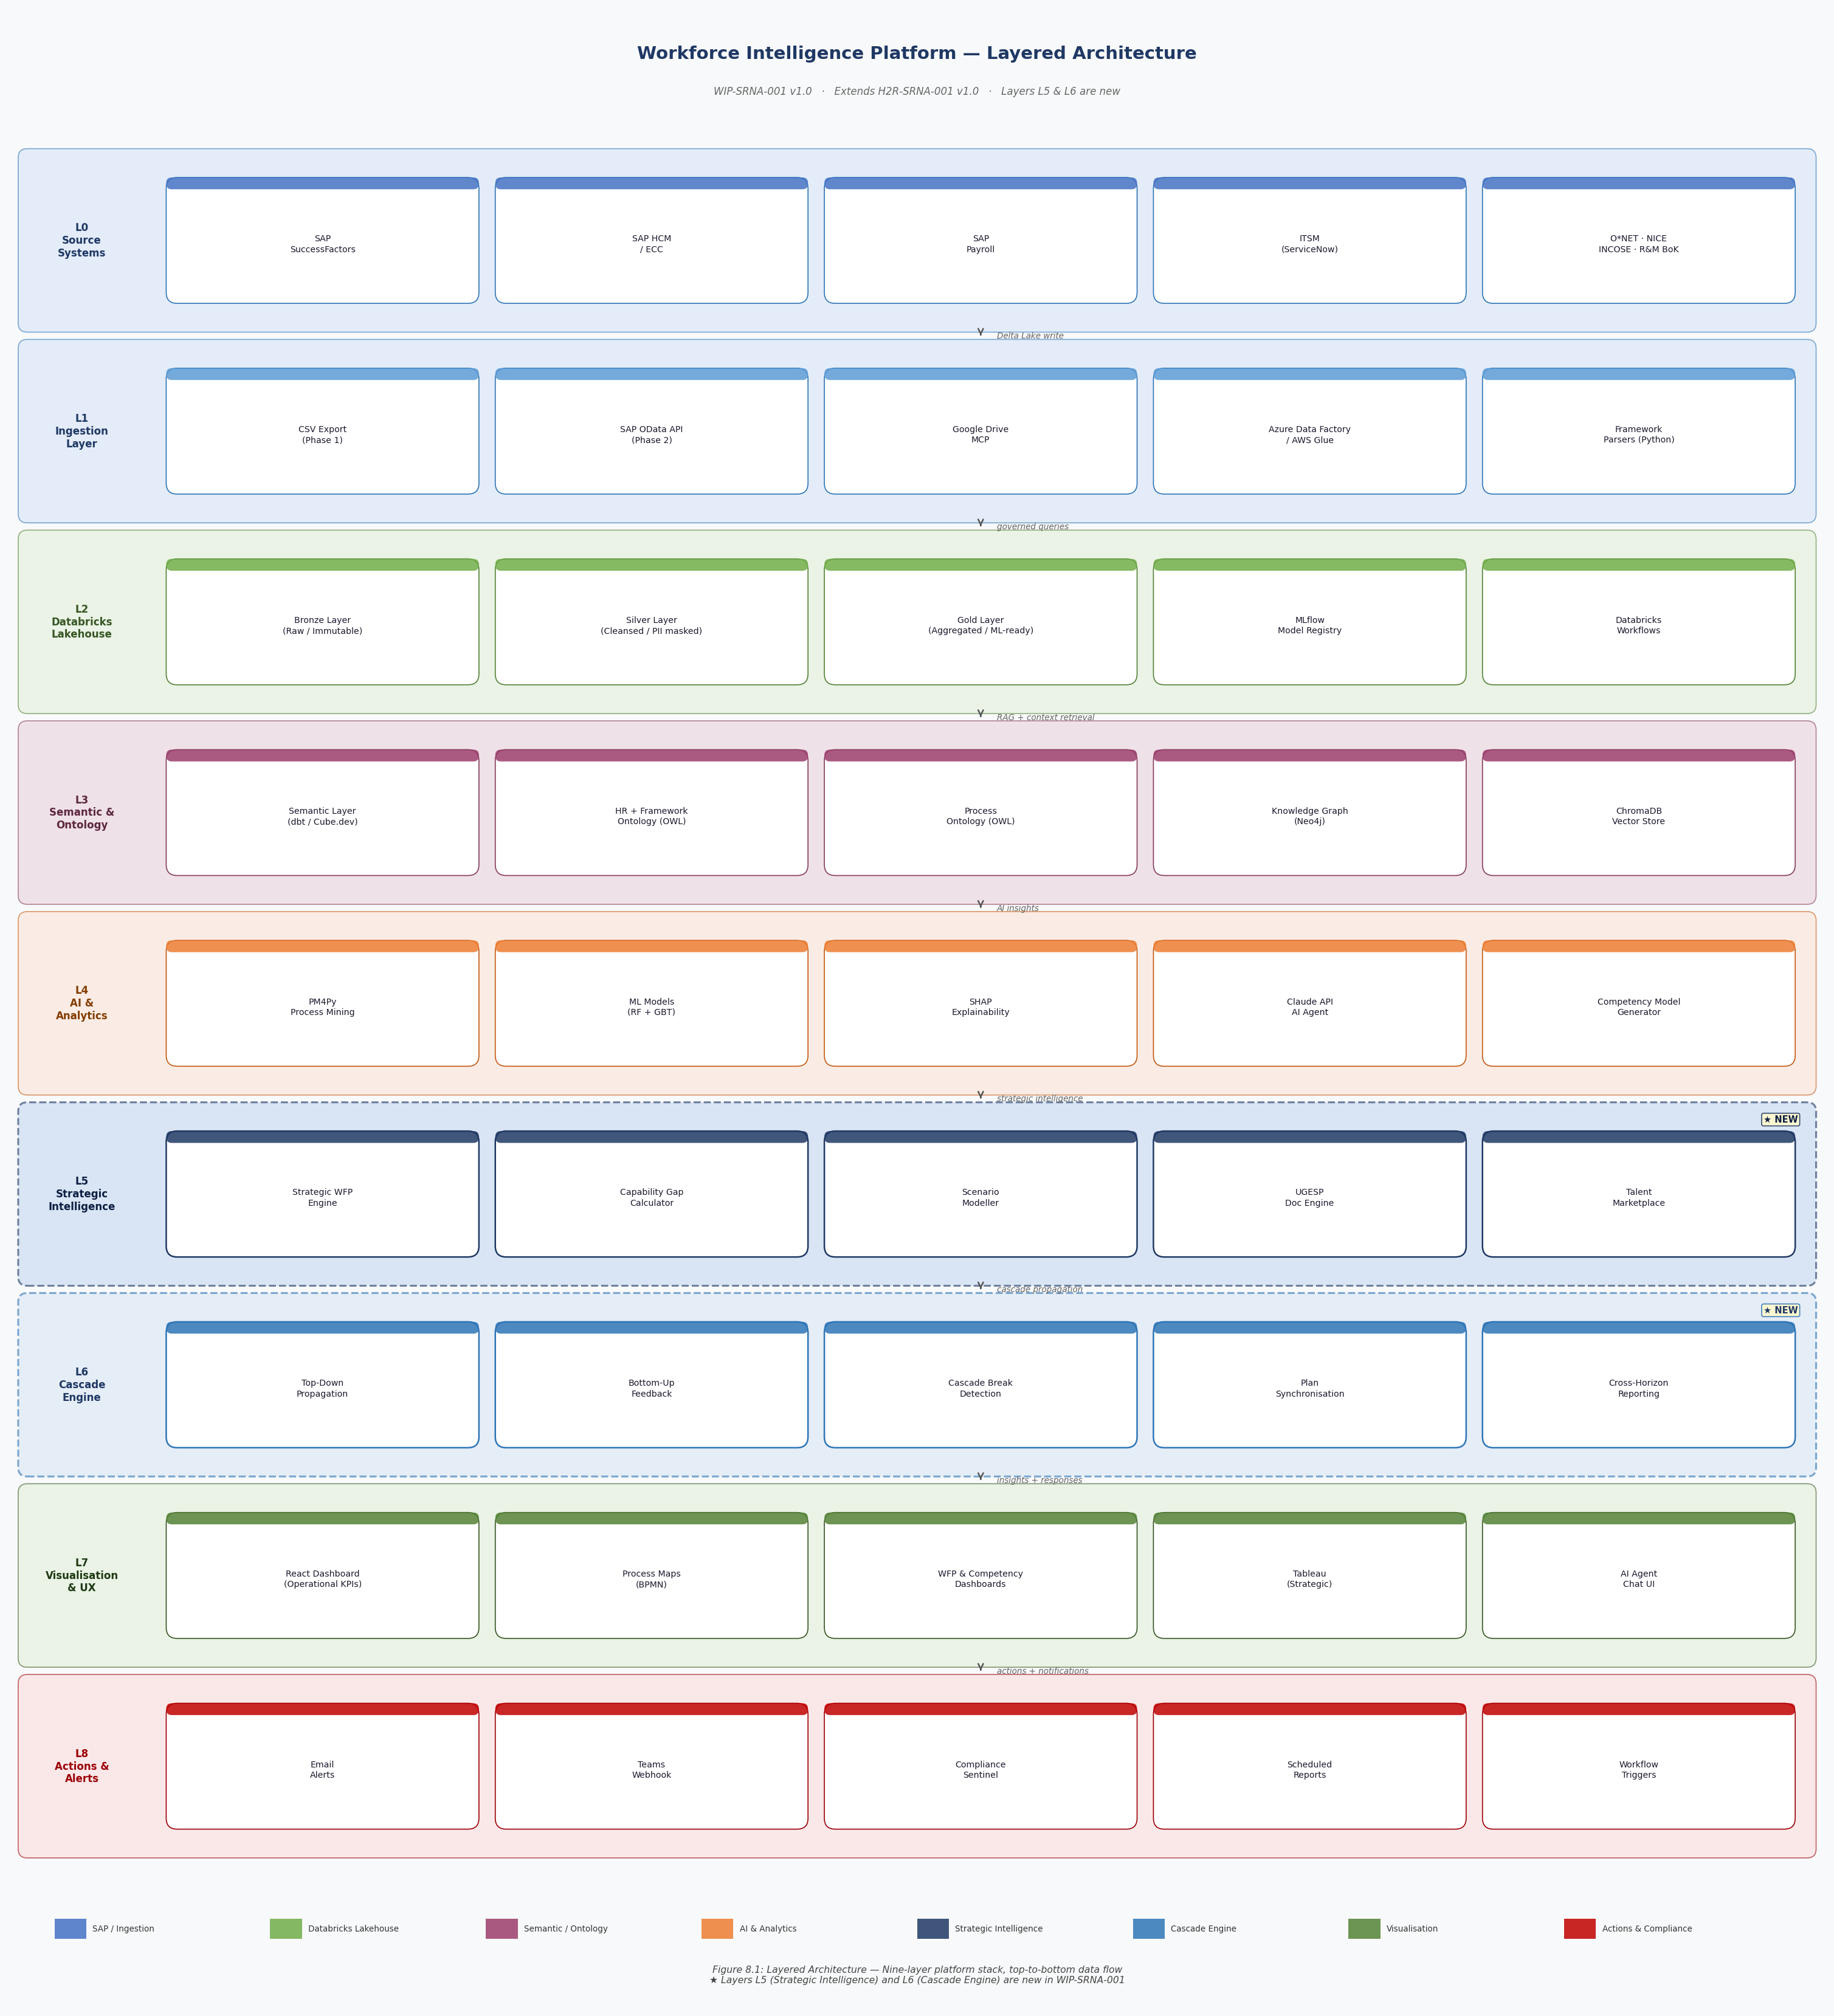
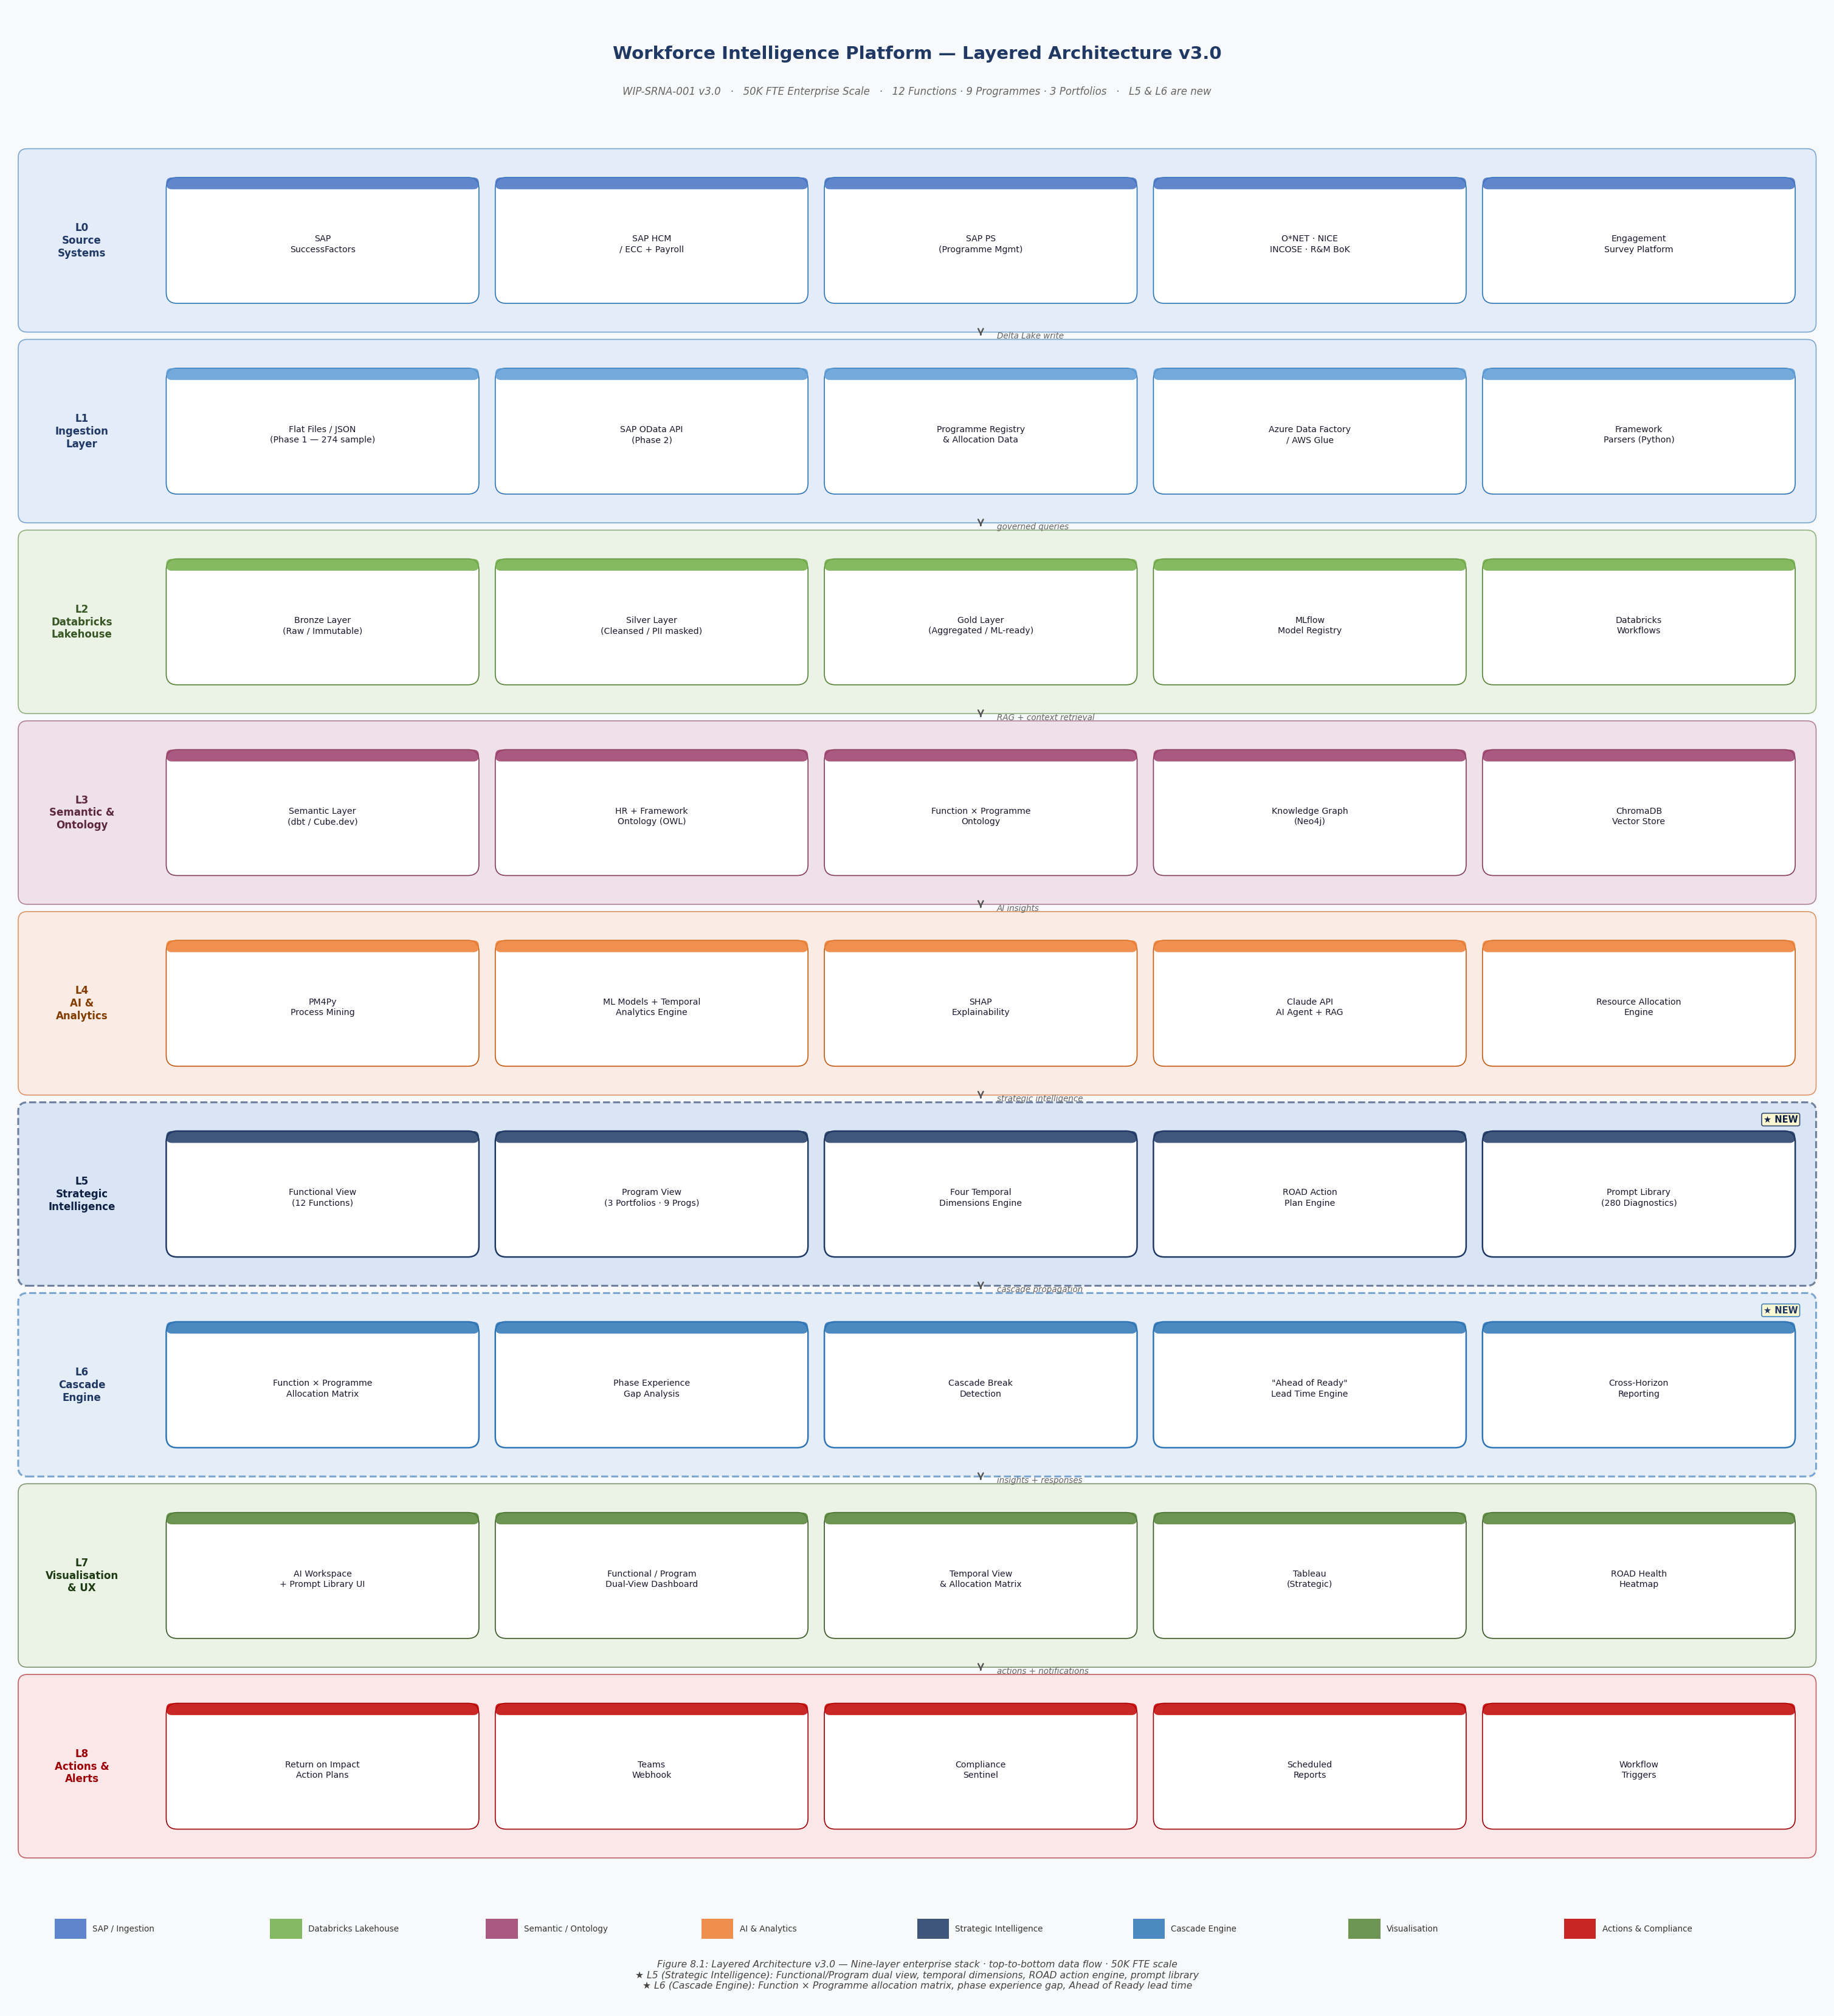
update architecture diagram to v3.0 and embed in SRNA document

diff --git a/generate_wip_srna.py b/generate_wip_srna.py
@@ -1071,6 +1071,39 @@ bullet('5. HR VP + CPO: prioritise which of the five prompt library domains to d
 bullet('6. All v2.0 next steps remain open unless explicitly resolved. See Section 13.')
 
 # ══════════════════════════════════════════════════════════════════════════════
+# ARCHITECTURE DIAGRAM (embedded from generate_diagram.py output)
+# ══════════════════════════════════════════════════════════════════════════════
+import os
+diag_path = os.path.join(os.path.dirname(os.path.abspath(__file__)),
+                         'platform-demo', 'assets', 'architecture.png')
+if os.path.exists(diag_path):
+    heading('20. Platform Architecture Diagram', 1)
+    body(
+        'The following diagram shows the nine-layer platform architecture as defined in '
+        'WIP-SRNA-001 v3.0. Layers L5 (Strategic Intelligence) and L6 (Cascade Engine) '
+        'are new additions not present in H2R-SRNA-001. Layer content has been updated '
+        'in v3.0 to reflect enterprise scale, the Functional / Program dual view, '
+        'temporal dimensions, resource allocation matrix, and the integrated prompt library.'
+    )
+    doc.add_picture(diag_path, width=Cm(16))
+    last_para = doc.paragraphs[-1]
+    last_para.alignment = WD_ALIGN_PARAGRAPH.CENTER
+    cap = doc.add_paragraph(
+        'Figure 20.1: WIP-SRNA-001 v3.0 Layered Architecture — Nine-layer enterprise stack '
+        '(L0–L8), top-to-bottom data flow, 50K FTE scale. '
+        'L5 and L6 are new in this version.'
+    )
+    cap.alignment = WD_ALIGN_PARAGRAPH.CENTER
+    for run in cap.runs:
+        run.font.size = Pt(8)
+        run.font.color.rgb = RGBColor(0x44, 0x44, 0x44)
+        run.italic = True
+    doc.add_paragraph()
+else:
+    heading('20. Platform Architecture Diagram', 1)
+    body('Run generate_diagram.py to generate the architecture diagram, then regenerate this document.')
+
+# ══════════════════════════════════════════════════════════════════════════════
 # SAVE
 # ══════════════════════════════════════════════════════════════════════════════
 output_path = r'C:\Users\traft\Desktop\WIP-SRNA-001-v3.0.docx'

diff --git a/generate_diagram.py b/generate_diagram.py
@@ -32,12 +32,12 @@ LAYER_COLORS = {
 LAYERS = [
     {
         'id': 'L0', 'name': 'Source\nSystems', 'style': 'sap',
-        'boxes': ['SAP\nSuccessFactors', 'SAP HCM\n/ ECC', 'SAP\nPayroll', 'ITSM\n(ServiceNow)', 'O*NET · NICE\nINCOSE · R&M BoK'],
+        'boxes': ['SAP\nSuccessFactors', 'SAP HCM\n/ ECC + Payroll', 'SAP PS\n(Programme Mgmt)', 'O*NET · NICE\nINCOSE · R&M BoK', 'Engagement\nSurvey Platform'],
         'new': False,
     },
     {
         'id': 'L1', 'name': 'Ingestion\nLayer', 'style': 'ingestion',
-        'boxes': ['CSV Export\n(Phase 1)', 'SAP OData API\n(Phase 2)', 'Google Drive\nMCP', 'Azure Data Factory\n/ AWS Glue', 'Framework\nParsers (Python)'],
+        'boxes': ['Flat Files / JSON\n(Phase 1 — 274 sample)', 'SAP OData API\n(Phase 2)', 'Programme Registry\n& Allocation Data', 'Azure Data Factory\n/ AWS Glue', 'Framework\nParsers (Python)'],
         'new': False,
     },
     {
@@ -47,32 +47,32 @@ LAYERS = [
     },
     {
         'id': 'L3', 'name': 'Semantic &\nOntology', 'style': 'semantic',
-        'boxes': ['Semantic Layer\n(dbt / Cube.dev)', 'HR + Framework\nOntology (OWL)', 'Process\nOntology (OWL)', 'Knowledge Graph\n(Neo4j)', 'ChromaDB\nVector Store'],
+        'boxes': ['Semantic Layer\n(dbt / Cube.dev)', 'HR + Framework\nOntology (OWL)', 'Function × Programme\nOntology', 'Knowledge Graph\n(Neo4j)', 'ChromaDB\nVector Store'],
         'new': False,
     },
     {
         'id': 'L4', 'name': 'AI &\nAnalytics', 'style': 'analytics',
-        'boxes': ['PM4Py\nProcess Mining', 'ML Models\n(RF + GBT)', 'SHAP\nExplainability', 'Claude API\nAI Agent', 'Competency Model\nGenerator'],
+        'boxes': ['PM4Py\nProcess Mining', 'ML Models + Temporal\nAnalytics Engine', 'SHAP\nExplainability', 'Claude API\nAI Agent + RAG', 'Resource Allocation\nEngine'],
         'new': False,
     },
     {
         'id': 'L5', 'name': 'Strategic\nIntelligence', 'style': 'strategic',
-        'boxes': ['Strategic WFP\nEngine', 'Capability Gap\nCalculator', 'Scenario\nModeller', 'UGESP\nDoc Engine', 'Talent\nMarketplace'],
+        'boxes': ['Functional View\n(12 Functions)', 'Program View\n(3 Portfolios · 9 Progs)', 'Four Temporal\nDimensions Engine', 'ROAD Action\nPlan Engine', 'Prompt Library\n(280 Diagnostics)'],
         'new': True,
     },
     {
         'id': 'L6', 'name': 'Cascade\nEngine', 'style': 'cascade',
-        'boxes': ['Top-Down\nPropagation', 'Bottom-Up\nFeedback', 'Cascade Break\nDetection', 'Plan\nSynchronisation', 'Cross-Horizon\nReporting'],
+        'boxes': ['Function × Programme\nAllocation Matrix', 'Phase Experience\nGap Analysis', 'Cascade Break\nDetection', '"Ahead of Ready"\nLead Time Engine', 'Cross-Horizon\nReporting'],
         'new': True,
     },
     {
         'id': 'L7', 'name': 'Visualisation\n& UX', 'style': 'viz',
-        'boxes': ['React Dashboard\n(Operational KPIs)', 'Process Maps\n(BPMN)', 'WFP & Competency\nDashboards', 'Tableau\n(Strategic)', 'AI Agent\nChat UI'],
+        'boxes': ['AI Workspace\n+ Prompt Library UI', 'Functional / Program\nDual-View Dashboard', 'Temporal View\n& Allocation Matrix', 'Tableau\n(Strategic)', 'ROAD Health\nHeatmap'],
         'new': False,
     },
     {
         'id': 'L8', 'name': 'Actions &\nAlerts', 'style': 'actions',
-        'boxes': ['Email\nAlerts', 'Teams\nWebhook', 'Compliance\nSentinel', 'Scheduled\nReports', 'Workflow\nTriggers'],
+        'boxes': ['Return on Impact\nAction Plans', 'Teams\nWebhook', 'Compliance\nSentinel', 'Scheduled\nReports', 'Workflow\nTriggers'],
         'new': False,
     },
 ]
@@ -87,10 +87,10 @@ fig.patch.set_facecolor('#F8F9FA')
 
 # ── Title ────────────────────────────────────────────────────────────────────
 ax.text(FIG_W / 2, FIG_H - 0.4,
-        'Workforce Intelligence Platform — Layered Architecture',
+        'Workforce Intelligence Platform — Layered Architecture v3.0',
         ha='center', va='top', fontsize=14, fontweight='bold', color='#1F3864')
 ax.text(FIG_W / 2, FIG_H - 0.85,
-        'WIP-SRNA-001 v1.0   ·   Extends H2R-SRNA-001 v1.0   ·   Layers L5 & L6 are new',
+        'WIP-SRNA-001 v3.0   ·   50K FTE Enterprise Scale   ·   12 Functions · 9 Programmes · 3 Portfolios   ·   L5 & L6 are new',
         ha='center', va='top', fontsize=8, color='#666666', style='italic')
 
 # ── Layout constants ─────────────────────────────────────────────────────────
@@ -220,8 +220,9 @@ for k, (label, color) in enumerate(legend_items):
             ha='left', va='center', fontsize=6.5, color='#333333')
 
 ax.text(FIG_W / 2, 0.35,
-        'Figure 8.1: Layered Architecture — Nine-layer platform stack, top-to-bottom data flow\n'
-        '★ Layers L5 (Strategic Intelligence) and L6 (Cascade Engine) are new in WIP-SRNA-001',
+        'Figure 8.1: Layered Architecture v3.0 — Nine-layer enterprise stack · top-to-bottom data flow · 50K FTE scale\n'
+        '★ L5 (Strategic Intelligence): Functional/Program dual view, temporal dimensions, ROAD action engine, prompt library\n'
+        '★ L6 (Cascade Engine): Function × Programme allocation matrix, phase experience gap, Ahead of Ready lead time',
         ha='center', va='center', fontsize=7.5, color='#444444', style='italic')
 
 plt.tight_layout(pad=0.3)